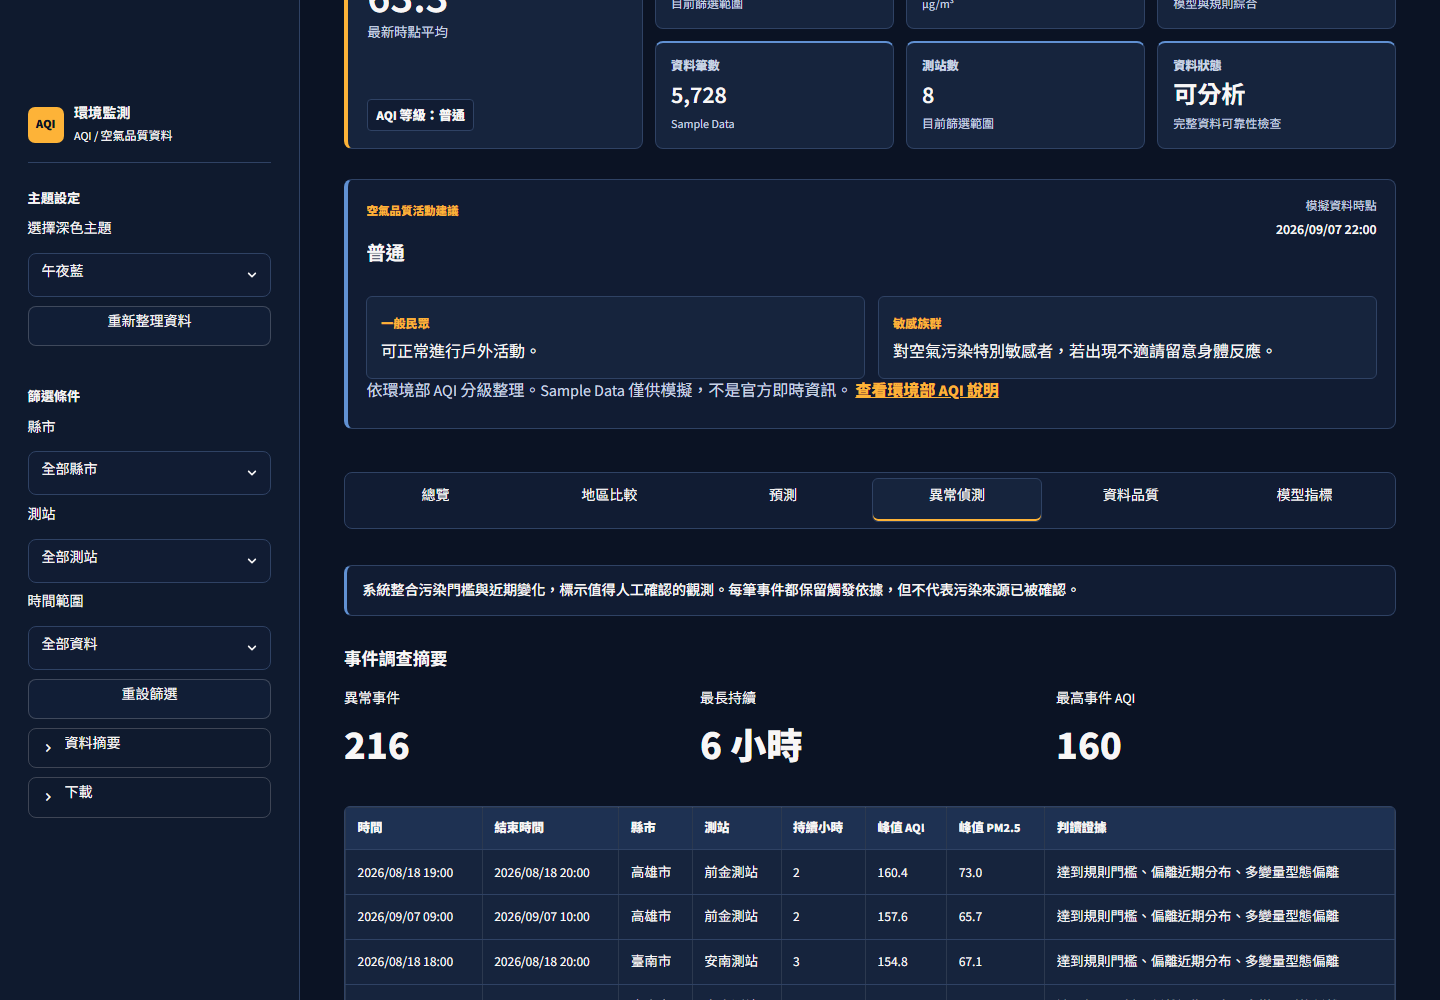
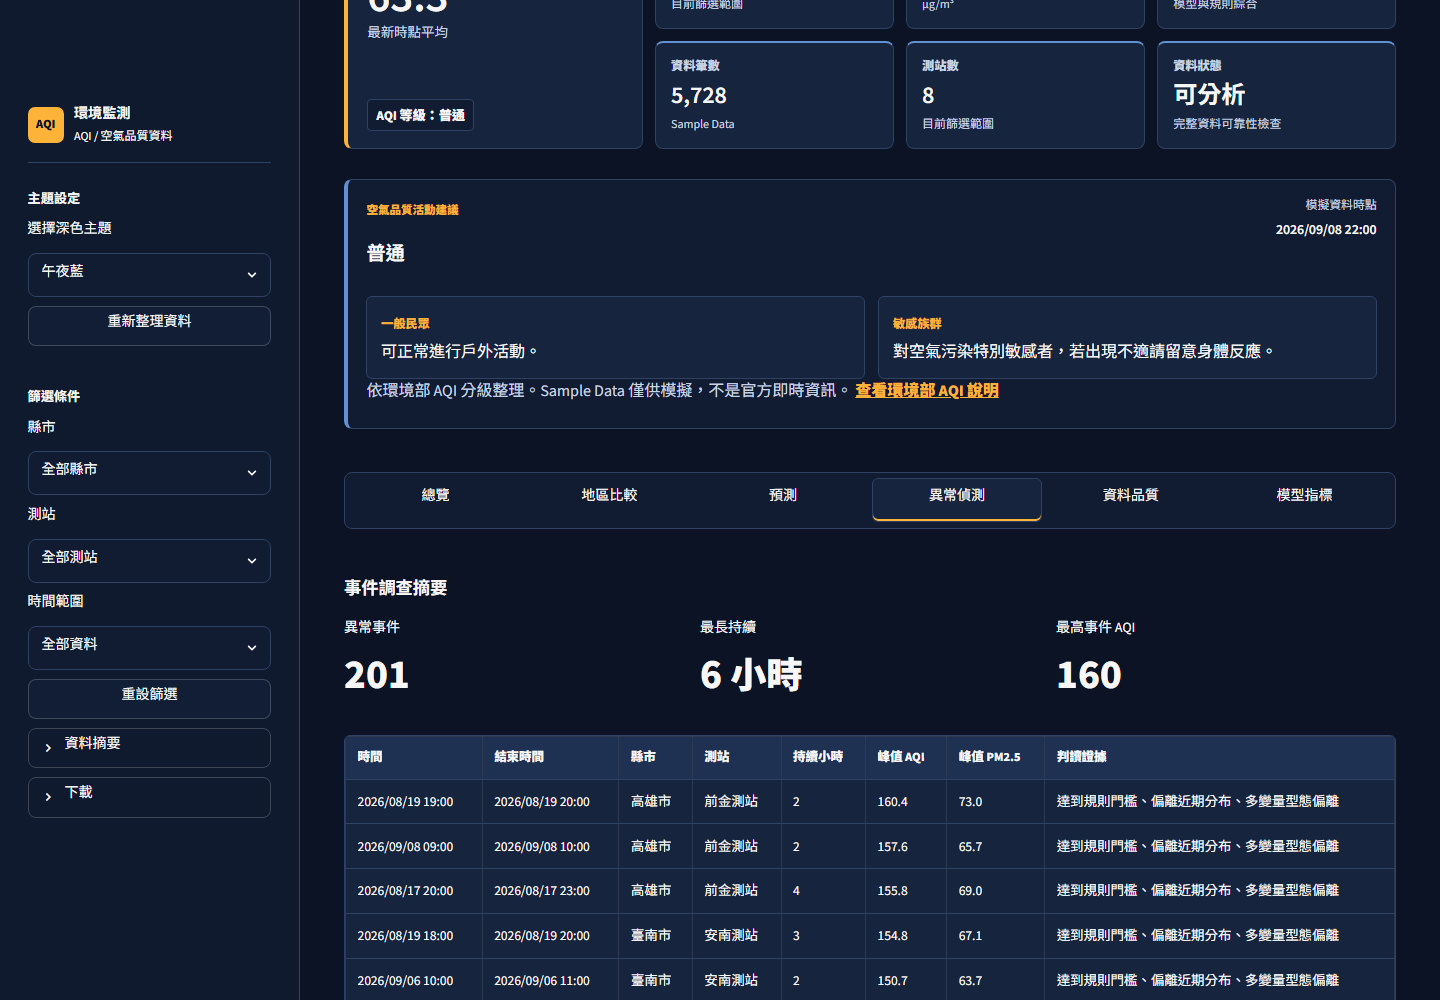
ui: streamline dashboard copy and refresh screenshots

diff --git a/src/dashboard/pages/metrics.py b/src/dashboard/pages/metrics.py
@@ -142,10 +142,6 @@ def render(context: PageContext) -> None:
     evaluation_summary = context.metrics.evaluation
     monitoring = context.metrics.monitoring
     monitoring_history = context.metrics.monitoring_history
-    st.markdown(
-        '<div class="section-note">此頁整理預測與異常偵測指標。異常偵測 precision、recall、F1 是對 pseudo-label 評估，不代表真實污染事件準確率。</div>',
-        unsafe_allow_html=True,
-    )
     st.subheader("模型健康度與漂移")
     monitoring_status = str(monitoring.get("status", "insufficient_data"))
     status_labels = {
@@ -179,7 +175,6 @@ def render(context: PageContext) -> None:
     reasons = retraining.get("reasons", [])
     if isinstance(reasons, list) and reasons:
         st.warning("重新訓練依據：" + "；".join(str(reason) for reason in reasons))
-    st.caption("監控比較最近 7 天與前 14 天；這是診斷訊號，不會自動替換模型。")
     st.subheader("監控歷史與重訓決策")
     history_table = monitoring_history_table(monitoring_history)
     if history_table.empty:
@@ -225,11 +220,6 @@ def render(context: PageContext) -> None:
             ),
             label="歷史監控與決策紀錄",
         )
-        max_history_entries = int(context.config.get("monitoring", {}).get("max_history_entries", 90))
-        st.caption(
-            f"顯示最近 10 筆；同一資料截止時間與模型的重跑會更新原紀錄，不重複灌入。"
-            f"完整歷史最多保留最近 {max_history_entries} 筆。"
-        )
     st.subheader("AQI 預測模型")
     predictor_table = _model_metrics_table(predictor_metrics)
     if predictor_table.empty:
@@ -266,7 +256,6 @@ def render(context: PageContext) -> None:
                 ),
                 label="各 AQI 區間可靠性",
             )
-        st.caption("分組指標皆顯示樣本數；小樣本測站或高 AQI 區間的數值波動較大，不應單獨作為部署依據。")
 
     coverage_table = station_coverage_table(confidence_metrics)
     if not coverage_table.empty:
@@ -286,7 +275,6 @@ def render(context: PageContext) -> None:
             ),
             label="各測站 final-test 區間校準檢查",
         )
-        st.caption("區間由 final test 之前的 rolling-origin 殘差校準；此表只評估覆蓋率，不用測試結果回頭調整寬度。")
     st.subheader("時間序列穩定性")
     backtest_table = _backtest_aggregate_table(backtest_metrics)
     if backtest_table.empty:
@@ -331,7 +319,6 @@ def render(context: PageContext) -> None:
             bool(item.get("exists")) and bool(item.get("sha256")) for item in artifact_records
         )
         revision = str(project.get("git_revision", "N/A"))
-        st.caption("此區塊將一次 pipeline 的版本、資料 contract 與輸出雜湊轉成可供審查的摘要，不顯示 raw JSON。")
         evidence_columns = st.columns(3)
         evidence_columns[0].metric("Git revision", revision[:12] if revision else "N/A")
         evidence_columns[1].metric("輸出完整度", f"{complete_artifacts}/{len(artifact_records)}")
@@ -350,7 +337,9 @@ def render(context: PageContext) -> None:
             key="metrics_manifest_download",
         )
 
-    st.markdown(
-        '<div class="section-note">限制：Sample Data 是模擬資料；API 欄位格式可能變動；異常偵測目前沒有人工標註 ground truth。未來可接入排程 API、真實事件標註與更嚴格的時間序列交叉驗證。</div>',
-        unsafe_allow_html=True,
-    )
+    with st.expander("方法與限制", expanded=False):
+        st.markdown(
+            "- 監控比較最近 7 天與前 14 天，不會自動替換模型。\n"
+            "- Sample Data 為模擬資料；API 欄位可能變動。\n"
+            "- 異常指標使用 pseudo-label，不能視為真實污染事件準確率。"
+        )

diff --git a/src/dashboard/pages/prediction.py b/src/dashboard/pages/prediction.py
@@ -73,10 +73,6 @@ def render(context: PageContext) -> None:
     selected_site = context.filters.site_name
     selected_site_display = context.filters.site_display
     quality = data_quality_summary(filtered_features)
-    st.markdown(
-        '<div class="section-note">根據目前及過去資料估計同一測站下一小時 AQI；模型不會使用預測時點之後的資料。</div>',
-        unsafe_allow_html=True,
-    )
     if filtered_predictions.empty:
         st.info("找不到預測結果，請先執行完整 sample mode 流程。")
     else:
@@ -166,7 +162,8 @@ def render(context: PageContext) -> None:
                     )
             with st.expander("檢視區間校準摘要", expanded=False):
                 render_table(confidence_table, label="預測區間校準摘要")
-            st.caption("區間來自歷史 rolling-origin 誤差的經驗校準，不代表保證機率，也不是官方警報或健康風險判定。")
+            with st.expander("預測區間說明", expanded=False):
+                st.caption("根據目前及過去資料估計同一測站下一小時 AQI；區間以歷史誤差校準，不代表保證機率或官方警報。")
 
         st.subheader("預測誤差")
         error_df = prediction_plot.copy()
@@ -200,12 +197,13 @@ def render(context: PageContext) -> None:
         p_cols[2].metric("R2", predictor_metrics.get("r2", "N/A"))
         split_rows = predictor_metrics.get("split_rows", {})
         if split_rows:
-            st.caption(
-                "模型以時間順序切分："
-                f"訓練 {split_rows.get('train', 0):,} 筆、"
-                f"驗證 {split_rows.get('validation', 0):,} 筆、"
-                f"最終測試 {split_rows.get('final_test', 0):,} 筆。"
-            )
+            with st.expander("資料切分", expanded=False):
+                st.caption(
+                    "依時間順序切分："
+                    f"訓練 {split_rows.get('train', 0):,}、"
+                    f"驗證 {split_rows.get('validation', 0):,}、"
+                    f"測試 {split_rows.get('final_test', 0):,} 筆。"
+                )
 
     st.subheader("滾動回測")
     backtest_table = _backtest_aggregate_table(backtest_metrics)
@@ -213,5 +211,5 @@ def render(context: PageContext) -> None:
         st.info("尚無滾動回測結果；請先執行 sample pipeline。")
     else:
         fold_count = int(backtest_metrics.get("fold_count", 0))
-        st.caption(f"{fold_count} 個測試窗皆只使用更早資料訓練，用於檢查不同時間段的穩定性。")
+        st.caption(f"{fold_count} 個時間序列測試窗")
         render_table(backtest_table, label="滾動回測模型比較")

diff --git a/app.py b/app.py
@@ -397,7 +397,6 @@ def main() -> None:
                 width="stretch",
                 disabled=filtered_features.empty,
             )
-            st.caption("可靠性摘要整合資料品質、測站優先級、模型 metrics、預測區間與異常偵測限制；不含模型內部特徵。")
             if manifest:
                 manifest_run_id = str(manifest.get("run_id", "run"))
                 st.download_button(
@@ -425,15 +424,6 @@ def main() -> None:
         ("測站數", station_count, "目前篩選範圍", "calm"),
         ("資料狀態", data_health.get("status", "尚未評估"), "完整資料可靠性檢查", "calm"),
     ]
-    st.markdown(
-        f"""
-        <div class="dashboard-intro">
-            <span><strong>監測摘要</strong>　以目前篩選結果建立今日的工作優先序。</span>
-            <span>{escape(data_source)} · {len(filtered_features):,} 筆資料</span>
-        </div>
-        """,
-        unsafe_allow_html=True,
-    )
     st.markdown(
         filter_context_html(
             selected_county,
@@ -465,12 +455,7 @@ def main() -> None:
     )
     render_active_view(selected_view or VIEW_LABELS[0], page_context, PAGE_RENDERERS)
     st.markdown(
-        f"""
-        <div class="dashboard-footer">
-            <span>環境監測資料工作台</span>
-            <span>測站脈絡判讀 · 下一小時預測 · {escape(data_source)}</span>
-        </div>
-        """,
+        '<div class="dashboard-footer"><span>環境監測資料工作台</span></div>',
         unsafe_allow_html=True,
     )
 

diff --git a/src/dashboard/pages/comparison.py b/src/dashboard/pages/comparison.py
@@ -73,10 +73,6 @@ def render(context: PageContext) -> None:
     selected_site = context.filters.site_name
     selected_site_display = context.filters.site_display
     quality = data_quality_summary(filtered_features)
-    st.markdown(
-        '<div class="section-note">同時比較 2–3 個測站的目前 AQI、下一小時預測與資料時點；此分頁不受側欄單站篩選限制，但會沿用日期區間。</div>',
-        unsafe_allow_html=True,
-    )
     latest_station_rows = pd.DataFrame()
     if not comparison_features.empty and {"site_name_display", "site_name", "datetime", "aqi"}.issubset(comparison_features.columns):
         latest_station_rows = (
@@ -206,7 +202,8 @@ def render(context: PageContext) -> None:
                 mime="text/csv",
                 width="stretch",
             )
-    st.markdown(
-        f'<div class="section-note">比較結果不是官方行程或健康建議。推薦會排除落後最新時點超過 2 小時的測站，並優先比較下一小時點預測；缺少預測時才使用目前 AQI。{escape(data_source)} 的限制仍適用。</div>',
-        unsafe_allow_html=True,
-    )
+    with st.expander("比較方式與限制", expanded=False):
+        st.markdown(
+            f"比較結果不是官方行程或健康建議。落後最新時點超過 2 小時的測站不列入推薦；"
+            f"優先比較下一小時預測，缺少預測時才使用目前 AQI。{escape(data_source)} 的限制仍適用。"
+        )

diff --git a/src/dashboard/pages/quality.py b/src/dashboard/pages/quality.py
@@ -19,10 +19,6 @@ def render(context: PageContext) -> None:
     data_source = context.data_source
     quality = data_quality_summary(filtered_features)
 
-    st.markdown(
-        '<div class="section-note">此頁整理資料完整性、缺失值與來源摘要，協助快速判斷目前資料是否適合分析。</div>',
-        unsafe_allow_html=True,
-    )
     source_status_panel(source_metadata)
 
     q_cols_top = st.columns(3, gap="large")
@@ -47,7 +43,6 @@ def render(context: PageContext) -> None:
     health_cols[2].metric("延遲測站", data_health.get("stale_station_count", "N/A"))
     largest_gap = data_health.get("largest_gap_hours")
     health_cols[3].metric("最大間隔", "N/A" if largest_gap is None else f"{float(largest_gap):g} 小時")
-    st.caption("可靠性檢查以完整特徵資料計算，包含站點時間戳重複、測站更新延遲與最大觀測間隔。")
 
     freshness_cols = st.columns(4, gap="large")
     freshness_cols[0].metric("來源狀態", data_health.get("source_status", "未知"))

diff --git a/src/dashboard/pages/anomaly.py b/src/dashboard/pages/anomaly.py
@@ -73,10 +73,6 @@ def render(context: PageContext) -> None:
     selected_site = context.filters.site_name
     selected_site_display = context.filters.site_display
     quality = data_quality_summary(filtered_features)
-    st.markdown(
-        '<div class="section-note">系統整合污染門檻與近期變化，標示值得人工確認的觀測。每筆事件都保留觸發依據，但不代表污染來源已被確認。</div>',
-        unsafe_allow_html=True,
-    )
     st.subheader("事件調查摘要")
     if filtered_events.empty:
         st.info("目前篩選範圍沒有可合併的異常事件。")
